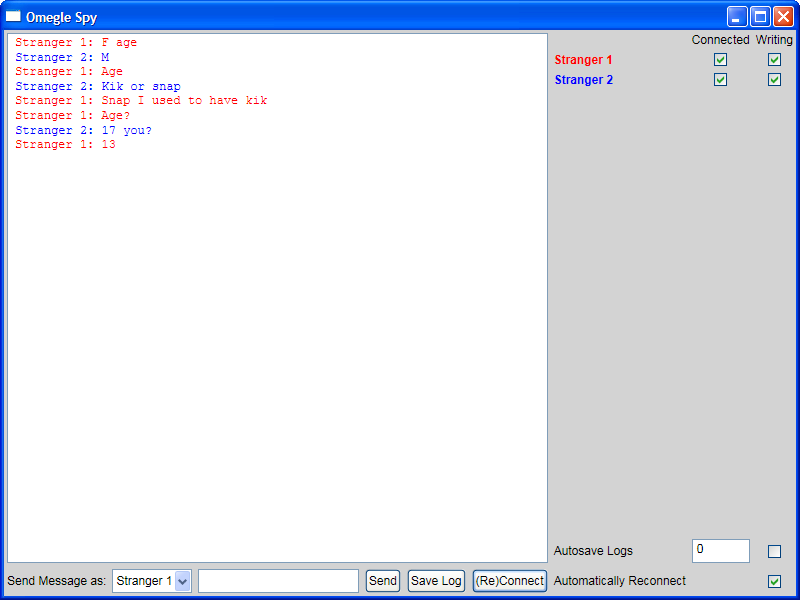
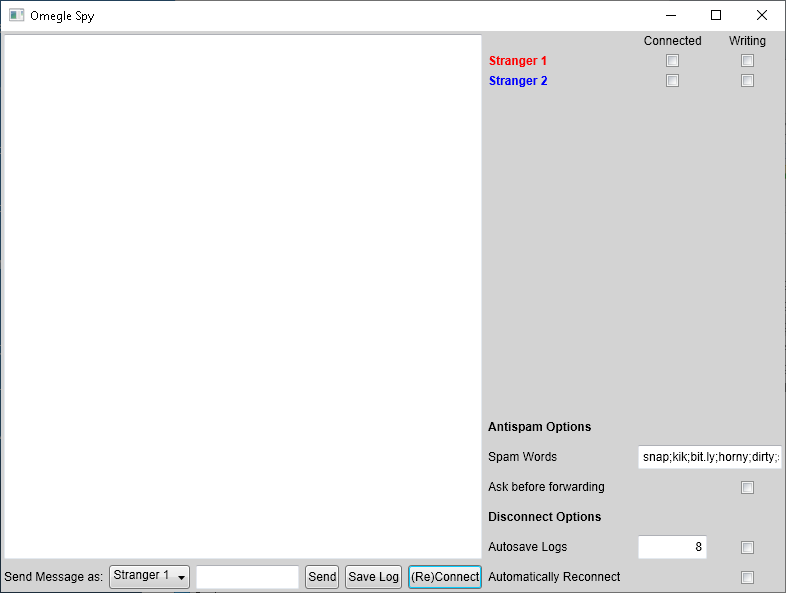
Added SpamProtection
If Enabled, SpamProtection asks you before a Message containing a bad word gets forwarded.

Changed region(s): [[0.0, 0.0, 1.0, 1.0]]

diff --git a/OmegleSpyWPF/WindowMain.xaml b/OmegleSpyWPF/WindowMain.xaml
@@ -5,7 +5,7 @@
     <Grid>
         <Grid.ColumnDefinitions>
             <ColumnDefinition Width="*"/>
-            <ColumnDefinition Width="Auto"/>
+            <ColumnDefinition Width="300"/>
         </Grid.ColumnDefinitions>
         <Grid.RowDefinitions>
             <RowDefinition Height="*"/>
@@ -31,7 +31,7 @@
                 <ComboBoxItem Content="Stranger 1"/>
                 <ComboBoxItem Content="Stranger 2"/>
             </ComboBox>
-            <TextBox x:Name="TxtbxInterveneText" Grid.Row="1" Grid.Column="2" Margin="3" ToolTip="Text to send" KeyDown="TxtbxInterveneText_KeyDown"/>
+            <TextBox x:Name="TxtbxInterveneText" Grid.Row="1" Grid.Column="2" Margin="3" ToolTip="Text to send" KeyDown="TxtbxInterveneText_KeyDown" VerticalContentAlignment="Center"/>
             <Button x:Name="BtnSendMessage" Grid.Row="1" Grid.Column="3" Margin="3" Content="Send" ToolTip="Alternativly press enter while typing" Click="BtnSendMessage_Click" />
             <Button x:Name="BtnSaveLog" Grid.Row="1" Grid.Column="4" Margin="3" Content="Save Log" ToolTip="Saves the current Chat" Click="BtnSaveLog_Click" />
             <Button x:Name="BtnReconnect" Grid.Row="1" Grid.Column="5" Margin="3" Content="(Re)Connect" ToolTip="Connects two new Strangers" Click="BtnReconnect_Click" />
@@ -46,16 +46,20 @@
                 <RowDefinition Height="*"/>
                 <RowDefinition Height="30"/>
                 <RowDefinition Height="30"/>
+                <RowDefinition Height="30"/>
+                <RowDefinition Height="30"/>
+                <RowDefinition Height="30"/>
+                <RowDefinition Height="30"/>
             </Grid.RowDefinitions>
             <Grid.ColumnDefinitions>
-                <ColumnDefinition Width="*"/>
-                <ColumnDefinition Width="Auto"/>
-                <ColumnDefinition Width="Auto"/>
+                <ColumnDefinition Width="150"/>
+                <ColumnDefinition Width="75"/>
+                <ColumnDefinition Width="75"/>
             </Grid.ColumnDefinitions>
             
             <!--Stranger Status-->
-            <TextBlock Text="Connected" Grid.Row="0" Grid.Column="1" Margin="3"/>
-            <TextBlock Text="Writing" Grid.Row="0" Grid.Column="2" Margin="3"/>
+            <TextBlock Text="Connected" Grid.Row="0" Grid.Column="1" Margin="3" VerticalAlignment="Center" HorizontalAlignment="Center"/>
+            <TextBlock Text="Writing" Grid.Row="0" Grid.Column="2" Margin="3" VerticalAlignment="Center" HorizontalAlignment="Center"/>
             <TextBlock Text="Stranger 1" Grid.Row="1" Grid.Column="0" Margin="3" TextDecorations="None" Foreground="Red" FontWeight="Bold"></TextBlock>
             <TextBlock Text="Stranger 2" Grid.Row="2" Grid.Column="0" Margin="3" FontWeight="Bold" Foreground="Blue" />
             <CheckBox x:Name="ChkbxS1Connected" IsHitTestVisible="False" Grid.Row="1" Grid.Column="1" Margin="3" HorizontalAlignment="Center" VerticalAlignment="Center"/>
@@ -63,12 +67,20 @@
             <CheckBox x:Name="ChkbxS2Connected" IsHitTestVisible="False" Grid.Row="2" Grid.Column="1" Margin="3" HorizontalAlignment="Center" VerticalAlignment="Center"/>
             <CheckBox x:Name="ChkbxS2Writing" IsHitTestVisible="False" Grid.Row="2" Grid.Column="2" Margin="3" HorizontalAlignment="Center" VerticalAlignment="Center"/>
             
-            <!--Options-->
-            <TextBlock Grid.Row="4" Grid.Column="0" Text="Autosave Logs" Margin="3" VerticalAlignment="Center"/>
-            <TextBox x:Name="TxtbxAutosaveMinLength" Grid.Row="4" Grid.Column="1" ToolTip="Log gets autosaved when the Chat is at least this long. '0' means it will always save." Margin="3" PreviewTextInput="TxtbxAutosaveMinLength_PreviewTextInput" Text="0"/>
-            <CheckBox x:Name="ChkbxActivateAutosave" Grid.Row="4" Grid.Column="2" ToolTip="Activates the Autosave" Margin="3" HorizontalAlignment="Center" VerticalAlignment="Center"/>
-            <TextBlock Grid.Row="5" Grid.Column="0" Text="Automatically Reconnect" Margin="3" VerticalAlignment="Center"/>
-            <CheckBox x:Name="ChkbxActivateAutoReconnect" Grid.Row="5" Grid.Column="2" ToolTip="Activates the automatic reconnect" Margin="3" HorizontalAlignment="Center" VerticalAlignment="Center"/>
+            <!--Anti-Spam Options-->
+            <TextBlock Grid.Row="4" Grid.Column="0" Text="Antispam Options" FontWeight="Bold" VerticalAlignment="Center" Margin="3" ToolTip="Should reduce the likelyhood of ip bans"/>
+            <TextBlock Grid.Row="5" Grid.Column="0" Text="Spam Words" VerticalAlignment="Center" Margin="3"/>
+            <TextBox x:Name="TxtbxBadWords" Grid.Row="5" Grid.Column="1" Grid.ColumnSpan="2" Margin="3" ToolTip="Words seperated by a ';' that should count as Spam" VerticalContentAlignment="Center" Text="snap;kik;bit.ly;horny;dirty;snapchat;jerk"/>
+            <TextBlock Grid.Row="6" Grid.Column="0" Text="Ask before forwarding" VerticalAlignment="Center" Margin="3" ToolTip="If this Option is activated, you will be asked before a message containing a Spam Word is forwarded to the recipient"/>
+            <CheckBox x:Name="ChkbxAskBeforeSpam" Grid.Row="6" Grid.Column="2" Margin="3" VerticalAlignment="Center" HorizontalAlignment="Center"/>
+            
+            <!--Disconnect Options-->
+            <TextBlock Grid.Row="7" Grid.Column="0" Text="Disconnect Options" FontWeight="Bold" VerticalAlignment="Center" Margin="3" ToolTip="These options determine what the program does when the Connection is closed"/>
+            <TextBlock Grid.Row="8" Grid.Column="0" Text="Autosave Logs" Margin="3" VerticalAlignment="Center"/>
+            <TextBox x:Name="TxtbxAutosaveMinLength" Grid.Row="8" Grid.Column="1" ToolTip="Log gets autosaved when the Chat is at least this long. '0' means it will always save." Margin="3" PreviewTextInput="NumericalPreviewTextInput" Text="8" HorizontalContentAlignment="Right" VerticalContentAlignment="Center"/>
+            <CheckBox x:Name="ChkbxActivateAutosave" Grid.Row="8" Grid.Column="2" ToolTip="Activates the Autosave" Margin="3" HorizontalAlignment="Center" VerticalAlignment="Center"/>
+            <TextBlock Grid.Row="9" Grid.Column="0" Text="Automatically Reconnect" Margin="3" VerticalAlignment="Center"/>
+            <CheckBox x:Name="ChkbxActivateAutoReconnect" Grid.Row="9" Grid.Column="2" ToolTip="Activates the automatic reconnect" Margin="3" HorizontalAlignment="Center" VerticalAlignment="Center"/>
         </Grid>
     </Grid>
 </Window>

diff --git a/OmegleSpyWPF/WindowMain.xaml.cs b/OmegleSpyWPF/WindowMain.xaml.cs
@@ -70,6 +70,27 @@ namespace OmegleSpyWPF
 
         void c_StrangerSentMessage(object sender, string Message)
         {
+            System.Boolean FoundBadWord = false;
+            this.Dispatcher.Invoke(new System.Action(() => {
+                if (ChkbxAskBeforeSpam.IsChecked == true)
+                {
+                    string[] badwords = TxtbxBadWords.Text.Split(new string[] { ";" }, System.StringSplitOptions.RemoveEmptyEntries);
+                    foreach (string badword in badwords)
+                    {
+                        if (Message.Contains(badword))
+                        {
+                            FoundBadWord = true;
+                            break;
+                        }
+                    }
+                }
+            }));
+
+            if (FoundBadWord)
+            {
+                if (MessageBox.Show(Message, "Forward Message?", MessageBoxButton.YesNo) != MessageBoxResult.Yes) return;
+            }
+
             if (sender == OmegleStrangers[0])
             {
                 if (Connected[1]) SendMessage(Message, MessageIssuer.Stranger1, false);
@@ -146,7 +167,7 @@ namespace OmegleSpyWPF
         /// </summary>
         /// <param name="sender"></param>
         /// <param name="e"></param>
-        private void TxtbxAutosaveMinLength_PreviewTextInput(object sender, System.Windows.Input.TextCompositionEventArgs e)
+        private void NumericalPreviewTextInput(object sender, System.Windows.Input.TextCompositionEventArgs e)
         {
             System.Text.RegularExpressions.Regex regex = new System.Text.RegularExpressions.Regex("[^0-9]+");
             e.Handled = regex.IsMatch(e.Text);

diff --git a/README.md b/README.md
@@ -4,6 +4,7 @@
 - Watch two strangers chatting without their knowledge
 - Send a message as one of them that will only be seen by the other
 - Save logs/configure an autosave for all chats that were longer than x messages
+- Activate spam protection to manually accept the forwarding of messages containing bad words. This should reduce the likelyhood of getting banned.
 # Is this hacking?
 No. This program works by connecting two clients to omegle at the same time using [Omegle-.NET](https://github.com/jeanluc162/Omegle-.NET) and forwarding all messages the first client receives to the second client and the other way around.
 # Is this illegal?
